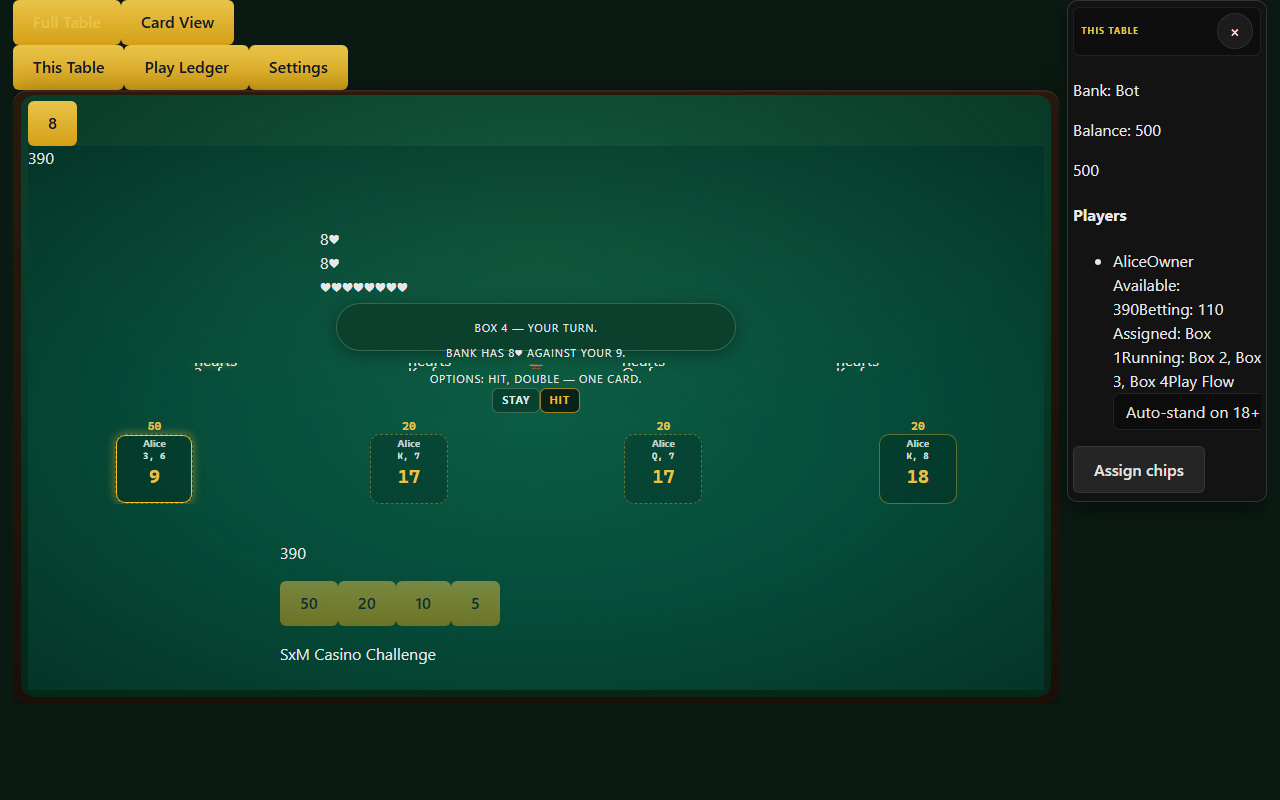
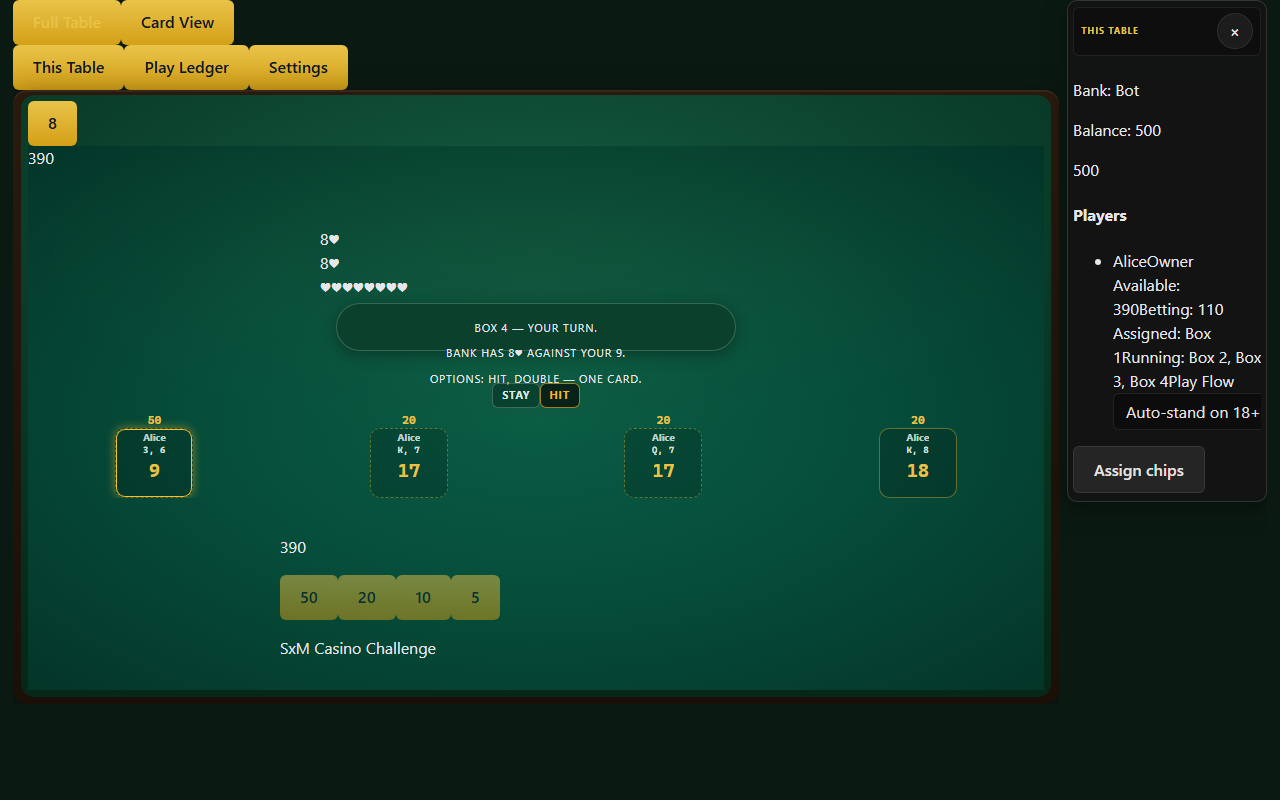
Polish desktop full table action spacing

diff --git a/src/styles/bj-full-table-card-area.css b/src/styles/bj-full-table-card-area.css
@@ -436,10 +436,10 @@
 @media (min-width: 721px) {
   .bj-view-full-desktop {
     --bj-full-desktop-dealer-command-gap: 0.1875rem;
-    --bj-full-desktop-actions-boxes-gap: 0.125rem;
+    --bj-full-desktop-actions-boxes-gap: 0.0625rem;
     --bj-full-desktop-stack-value-gap: 0.3125rem;
     --bj-full-desktop-zone-actions-height: calc(1.55rem + var(--bj-full-desktop-actions-boxes-gap));
-    --bj-full-desktop-cards-actions-gap: 0.5rem;
+    --bj-full-desktop-cards-actions-gap: 0.125rem;
     --bj-desktop-grid-row-cards: auto;
     --bj-box-value-band-height: 1.05rem;
   }
@@ -456,15 +456,39 @@
   }
 
   .bj-view-full-desktop .bj-table-layout-shell > .bj-table-zone--actions {
-    padding-top: var(--bj-full-desktop-cards-actions-gap);
+    margin-top: var(--bj-full-desktop-cards-actions-gap);
+    padding-top: 0;
     padding-bottom: var(--bj-full-desktop-actions-boxes-gap);
     justify-content: flex-end;
     align-items: center;
   }
 
   .bj-view-full-desktop .bj-table-layout-shell > .bj-table-zone--cards.bj-cards-area--table {
-    padding-bottom: var(--bj-full-desktop-cards-actions-gap);
+    padding-bottom: 0;
     overflow: hidden;
+  }
+
+  /* Play phase — hand total lives in player box only; shorter column stacks cards above box. */
+  .bj-view-full-desktop .bj-arc__slot--card-column--stack-value-in-box {
+    grid-template-rows:
+      var(--bj-full-table-card-outcome-zone-height)
+      var(--bj-full-table-card-stack-zone-height);
+    height: calc(
+      var(--bj-full-table-card-outcome-zone-height) + var(--bj-full-table-card-stack-zone-height)
+    );
+    min-height: calc(
+      var(--bj-full-table-card-outcome-zone-height) + var(--bj-full-table-card-stack-zone-height)
+    );
+    max-height: calc(
+      var(--bj-full-table-card-outcome-zone-height) + var(--bj-full-table-card-stack-zone-height)
+    );
+  }
+
+  .bj-view-full-desktop .bj-arc__slot--card-column--stack-value-in-box.bj-arc__slot--card-column--stack-outcome {
+    grid-template-rows: var(--bj-full-table-card-stack-zone-height);
+    height: var(--bj-full-table-card-stack-zone-height);
+    min-height: var(--bj-full-table-card-stack-zone-height);
+    max-height: var(--bj-full-table-card-stack-zone-height);
   }
 
   .bj-view-full-desktop .bj-table-layout-shell > .bj-table-zone--boxes {

diff --git a/src/components/BlackjackPanel.tsx b/src/components/BlackjackPanel.tsx
@@ -1702,6 +1702,10 @@ export function BlackjackPanel({
           {cardAreaOutcomeStackBadgeText(marker)}
         </span>
       ) : null;
+    const suppressCardColumnStackValue =
+      isFullTableDesktop &&
+      !inBetting &&
+      Boolean(cardColumnValueLabel);
     return (
       <div
         key={`cards-${boxId}`}
@@ -1710,6 +1714,7 @@ export function BlackjackPanel({
           'bj-arc__slot--card-column',
           isSplit ? 'bj-arc__slot--card-split' : '',
           stackOutcomeBadgeMarker ? 'bj-arc__slot--card-column--stack-outcome' : '',
+          suppressCardColumnStackValue ? 'bj-arc__slot--card-column--stack-value-in-box' : '',
         ].filter(Boolean).join(' ')}
         style={{ '--arc-rot': `${rotation}deg` } as CSSProperties}
         data-box-slot={slotNumber}
@@ -1759,6 +1764,7 @@ export function BlackjackPanel({
             stackOutcomeBadge(outcomeMarker),
           )
         )}
+        {suppressCardColumnStackValue ? null : (
         <span
           data-layout-band="card-column-value"
           className={[
@@ -1774,6 +1780,7 @@ export function BlackjackPanel({
         >
           {cardColumnValueLabel || '\u00a0'}
         </span>
+        )}
       </div>
     );
   }
